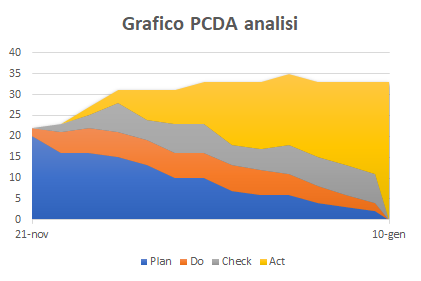
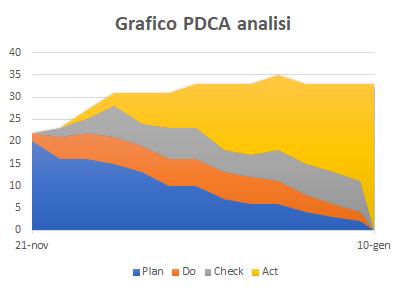
[PdQ] Fix errori

diff --git a/PianoDiQualifica/Res/Sezioni/Resoconto(sorice).tex b/PianoDiQualifica/Res/Sezioni/Resoconto(sorice).tex
@@ -9,8 +9,8 @@ Infine sono stati verificati i processi seguendo le specifiche contenute nelle \
 Il grafico PDCA della fase di Analisi è:
 \begin{figure} [H]
 	\centering
-	\includegraphics[scale=1]{Img/Grafico_PCDA}
-	\caption{Grafico PDCA, fase di Analisi}\label{}
+	\includegraphics[scale=1]{Img/Grafico_PDCA}
+	\caption{Figura n: Grafico PDCA, fase di Analisi}\label{}
 \end{figure}
 Dal grafico possiamo estrapolare che:
 \begin{itemize}
@@ -25,13 +25,23 @@ su 4.1.
 \begin{longtable}{|c|c|c|}
 \hline
 \textbf{Documento} & \textbf{Valore indice} & \textbf{Esito} \\
-	\hline
+\hline
 	\emph{Piano di Progetto v1.0.0} & {???} & {Superato}\\
 \hline
-\caption[Tracciamento Casi d'uso - Requisiti]{Tracciamento Casi d'uso - Requisiti}
-\label{tabella:requi-usecase}
+	\emph{Norme di Progetto v1.0.0} & {???} & {Superato}\\
+\hline
+	\emph{Analisi dei Requisiti v1.0.0} & {???} & {Superato}\\
+\hline
+	\emph{Piano di Qualifica v1.0.0} & {???} & {Superato}\\
+\hline
+	\emph{Studio di Fattibilità v1.0.0} & {???} & {Superato}\\
+\hline
+	\emph{Glossario v1.0.0} & {???} & {Superato}\\
+\hline
+\caption[Tabella n: Esiti verifica documenti, Analisi]{Tabella n: Esiti verifica documenti, Analisi}
+\label{tabella:verifica documenti}
 \endhead
 \end{longtable}
 \subsection{Dettaglio dell’esito delle revisioni}
-
+Dalla tabella si può notare come tutti gli indici Gulpease dei documenti rientrino nei vincoli dati e sono di facile lettura anche per chi ha la licenza elementare. Per questo motivo i documenti redatti hanno raggiunto la leggibilità desiderata.
 \pagebreak
